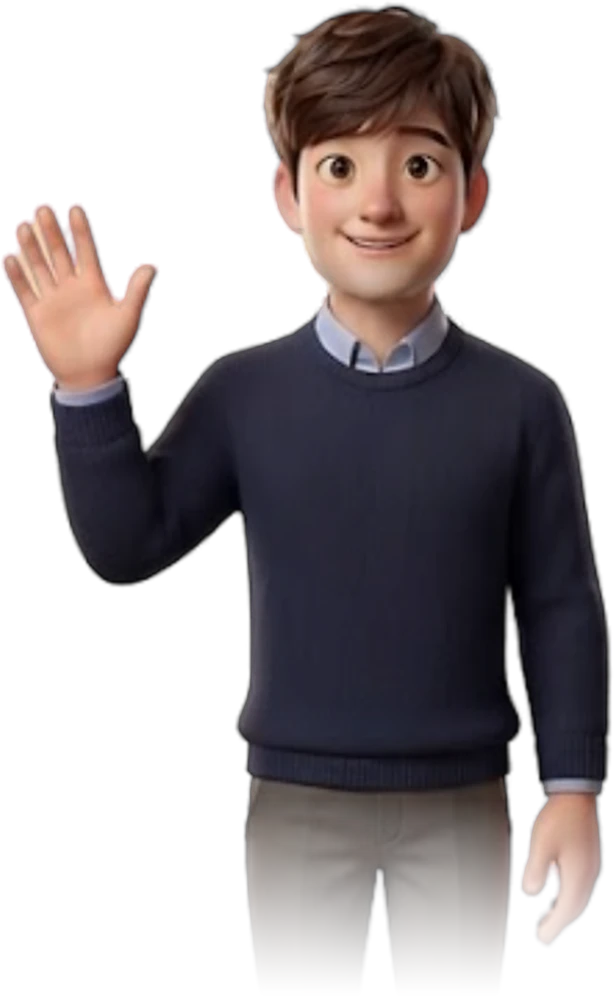
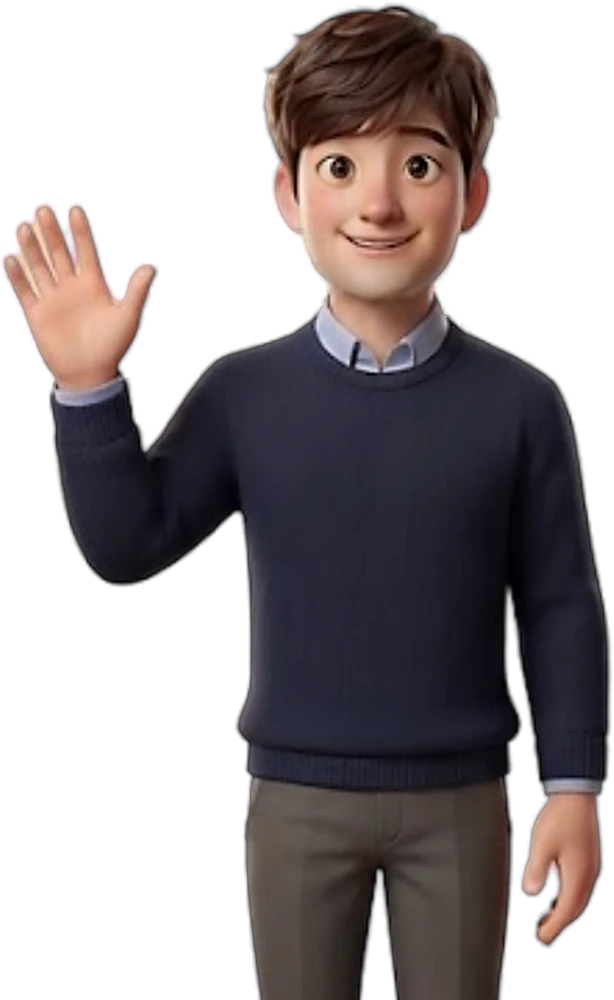
Add files via upload

Changed region(s): [[0.3713, 0.806, 0.9902, 1.0]]

diff --git a/styles.css b/styles.css
@@ -80,34 +80,36 @@ h3 { font-size: 1.25rem; font-weight: 600; }
 .hero-inner { display: grid; grid-template-columns: 1.2fr 1fr; gap: 40px; align-items: center; }
 .hl { color: var(--coral); }
 .hero-cta { display: flex; gap: .8em; flex-wrap: wrap; margin-top: 1.6em; }
-.hero-art { position: relative; display: flex; justify-content: center; isolation: isolate; }
+.hero-art { position: relative; display: flex; justify-content: center; }
+/* Figure pops out of the top of the circle; the bottom is clipped by the circle edge */
+.hero-figure {
+  position: relative; width: min(440px, 82vw); aspect-ratio: 1 / 1.2;
+  -webkit-mask: linear-gradient(#000, #000) top / 100% 58.5% no-repeat,
+                radial-gradient(circle closest-side at 50% 58.4%, #000 99.5%, transparent 100%);
+          mask: linear-gradient(#000, #000) top / 100% 58.5% no-repeat,
+                radial-gradient(circle closest-side at 50% 58.4%, #000 99.5%, transparent 100%);
+}
 .blob {
-  position: absolute; inset: 8% 4% 0 4%;
-  background: radial-gradient(circle at 30% 30%, var(--sun), #ffb13b 60%, var(--coral));
-  border-radius: 46% 54% 40% 60% / 55% 45% 55% 45%;
-  animation: morph 12s ease-in-out infinite;
-  opacity: .9;
+  position: absolute; left: 0; right: 0; top: 16.7%; aspect-ratio: 1; border-radius: 50%;
+  background: radial-gradient(circle at 32% 28%, #ffd77a, #ffb13b 55%, #ff8a50);
+  box-shadow: inset -22px -28px 60px rgba(200,90,40,.28), inset 18px 20px 46px rgba(255,255,255,.4);
 }
 .avatar-hero {
-  position: relative; max-height: 500px; width: auto;
-  filter: drop-shadow(0 2px 2px rgba(35,44,79,.18)) drop-shadow(0 22px 28px rgba(35,44,79,.28));
+  position: absolute; left: 50%; bottom: -3%; height: 102%; width: auto; max-width: none;
+  transform: translateX(-50%);
+  filter: drop-shadow(0 2px 2px rgba(35,44,79,.18)) drop-shadow(0 18px 24px rgba(35,44,79,.25));
 }
 .hero-art::after {
-  content: ""; position: absolute; left: 50%; bottom: 2%;
-  width: 46%; height: 26px; transform: translateX(-50%);
-  background: radial-gradient(ellipse at center, rgba(35,44,79,.28), transparent 70%);
-  filter: blur(4px); z-index: -1;
+  content: ""; position: absolute; left: 50%; bottom: -14px; width: 60%; height: 28px;
+  transform: translateX(-50%); z-index: -1;
+  background: radial-gradient(ellipse at center, rgba(255,140,60,.35), transparent 70%); filter: blur(6px);
 }
-.blob { box-shadow: inset -18px -24px 50px rgba(200,90,40,.25), inset 16px 18px 40px rgba(255,255,255,.35), 0 24px 50px rgba(255,140,60,.25); }
 .bubble {
-  position: absolute; top: 8%; right: 0;
+  position: absolute; top: 6%; right: 2%;
   background: #fff; color: var(--navy);
   font-weight: 800; padding: .6em 1em; border-radius: 18px 18px 18px 4px;
   box-shadow: var(--shadow);
   animation: bob 3s ease-in-out infinite;
-}
-@keyframes morph {
-  50% { border-radius: 58% 42% 55% 45% / 45% 58% 42% 55%; }
 }
 @keyframes bob { 50% { transform: translateY(-6px); } }
 
@@ -274,7 +276,7 @@ h3 { font-size: 1.25rem; font-weight: 600; }
   .hero-inner { grid-template-columns: 1fr; text-align: center; }
   .hero-cta { justify-content: center; }
   .lead { margin-inline: auto; }
-  .avatar-hero { max-height: 360px; }
+  .hero-figure { width: min(340px, 80vw); }
   .nav-links a:not(.btn) { display: none; }
   .with-avatar { flex-direction: column; align-items: flex-start; }
   .avatar-side { height: 150px; }

diff --git a/projects.js b/projects.js
@@ -32,18 +32,18 @@ window.FEATURED = [
     grades: "K-5",
     color: "#1FA2B8",
     mark: "WP",
-    image: ""
+    image: "assets/projects/wonder-pond.webp"
   },
   {
     title: "Pip's AI Lab",
     url: "https://pips-ai-lab.github.io/",
     tagline: "AI literacy for kids",
-    desc: "A free, self-paced website that helps elementary students understand what AI is, how it works, and how to use it wisely.",
-    points: ["Self-paced for students", "Designed for elementary classrooms", "Free to use"],
-    grades: "Elementary",
+    desc: "Pip is a robot who is still learning. Students help Pip, play missions, and collect stamps in their AI passport.",
+    points: ["Sprout Explorers (K-2): short missions with pictures and read-aloud help", "Trailblazers (3-5): run experiments, test Pip, and think about fairness", "Read-to-me audio, an AI passport, and a Teacher Room"],
+    grades: "K-5",
     color: "#6C5CE7",
     mark: "Pip",
-    image: ""
+    image: "assets/projects/pips-ai-lab.webp"
   }
 ];
 

diff --git a/index.html b/index.html
@@ -47,8 +47,10 @@
           </div>
         </div>
         <div class="hero-art">
-          <div class="blob"></div>
-          <img src="assets/avatar/wave.webp" alt="Cartoon Dr. Yu waving hello" class="avatar avatar-hero" />
+          <div class="hero-figure">
+            <div class="blob"></div>
+            <img src="assets/avatar/wave.webp" alt="Cartoon Dr. Yu waving hello" class="avatar avatar-hero" />
+          </div>
           <div class="bubble">Hi, I'm Dr. Yu!</div>
         </div>
       </div>
